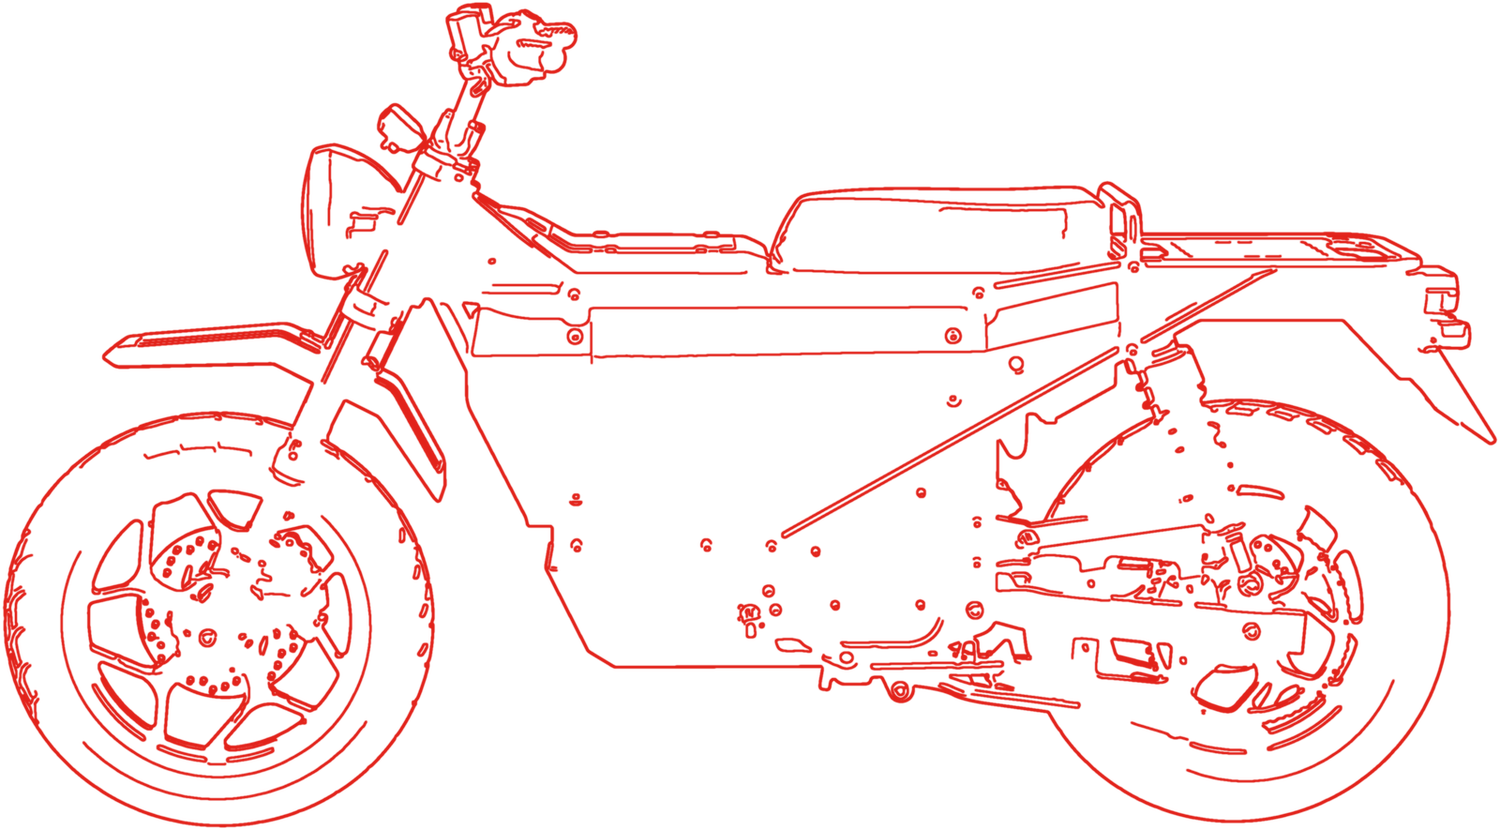
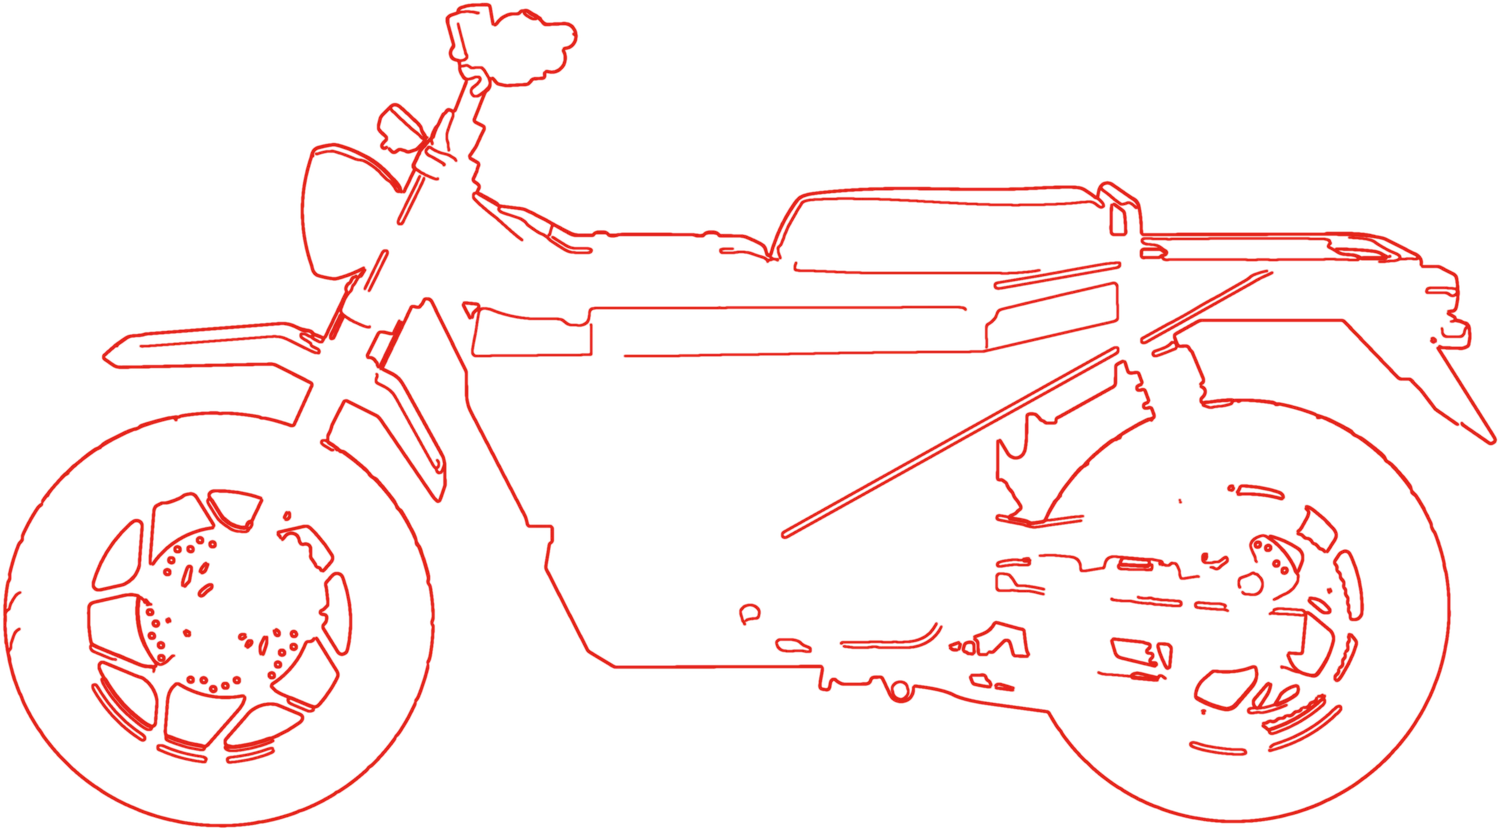
Add files via upload

diff --git a/index.html b/index.html
@@ -76,7 +76,17 @@ nav{
   background:linear-gradient(180deg,rgba(10,10,11,.92),rgba(10,10,11,0));
   backdrop-filter:blur(6px);
 }
-.brand{display:flex;align-items:baseline;gap:10px}
+.brand{display:flex;align-items:baseline;gap:10px;text-decoration:none;color:inherit;transition:opacity .2s}
+.brand:hover{opacity:.72}
+.navright{display:flex;align-items:center;gap:10px}
+.navcta{
+  background:var(--red);color:#fff;border:0;cursor:pointer;border-radius:2px;
+  font-family:var(--mono);font-size:10.5px;font-weight:500;letter-spacing:.14em;
+  text-transform:uppercase;padding:9px 16px;transition:background .2s;white-space:nowrap;
+}
+.navcta:hover{background:#ff2e24}
+.navcta .sm{display:none}
+@media(max-width:560px){.navcta{padding:9px 12px;letter-spacing:.1em}.navcta .lg{display:none}.navcta .sm{display:inline}}
 .brand b{font-family:var(--wordmark);font-weight:400;font-size:23px;letter-spacing:.04em}
 .brand span{font-family:var(--mono);font-size:10px;letter-spacing:.2em;color:var(--muted)}
 .langtoggle{display:flex;border:1px solid var(--line-strong);border-radius:2px;overflow:hidden}
@@ -89,6 +99,7 @@ nav{
 /* ---------- hero ---------- */
 .hero{position:relative;min-height:100svh;display:flex;flex-direction:column;justify-content:flex-end;padding:96px var(--gut) 0}
 #field{position:absolute;inset:0;width:100%;height:100%;z-index:0}
+.hero.dragging,.hero.dragging *{user-select:none;-webkit-user-select:none}
 .hero-inner{position:relative;z-index:2;width:100%;margin-top:auto;padding-bottom:clamp(28px,7vh,80px)}
 .hero h1{
   font-family:var(--wordmark);font-weight:400;text-transform:uppercase;
@@ -196,15 +207,21 @@ footer .tag{line-height:2}
 <body>
 
 <nav>
-  <div class="brand"><b>VOLTY</b><span>BY NUEN MOTO</span></div>
-  <div class="langtoggle" role="group" aria-label="Language">
-    <button id="btn-en" aria-pressed="true">EN</button>
-    <button id="btn-vi" aria-pressed="false">VI</button>
+  <a class="brand" href="#top" aria-label="Volty home"><b>VOLTY</b><span>BY NUEN MOTO</span></a>
+  <div class="navright">
+    <button class="navcta" id="navjoin">
+      <span class="lg" data-en="Join the list" data-vi="Đăng ký danh sách">Join the list</span>
+      <span class="sm" data-en="Join" data-vi="Đăng ký">Join</span>
+    </button>
+    <div class="langtoggle" role="group" aria-label="Language">
+      <button id="btn-en" aria-pressed="true">EN</button>
+      <button id="btn-vi" aria-pressed="false">VI</button>
+    </div>
   </div>
 </nav>
 
 <!-- ============ HERO ============ -->
-<header class="hero">
+<header class="hero" id="top">
   <canvas id="field" aria-hidden="true"></canvas>
 
   <div class="hero-inner">
@@ -364,6 +381,7 @@ tick(); setInterval(tick, 1000);
 var cv = document.getElementById("field"), cx = cv.getContext("2d");
 var dots = [], W = 0, H = 0, dpr = Math.min(window.devicePixelRatio || 1, 2);
 var px = -9999, py = -9999, hasPointer = false, heroVisible = true;
+var dragging = false, boost = 1;
 
 function build(){
   W = cv.clientWidth; H = cv.clientHeight;
@@ -378,7 +396,8 @@ function build(){
 function draw(t){
   if(!heroVisible){ requestAnimationFrame(draw); return; }
   cx.clearRect(0,0,W,H);
-  var R = W < 620 ? 130 : 200;
+  boost += ((dragging ? 1.5 : 1) - boost) * 0.10;
+  var R = (W < 620 ? 190 : 300) * boost;
   var wave = t * 0.0006;
   for(var i=0;i<dots.length;i++){
     var d = dots[i];
@@ -388,9 +407,10 @@ function draw(t){
       var dist = Math.sqrt(vx*vx + vy*vy);
       if(dist < R){
         var f = 1 - dist/R;
-        cx.fillStyle = "rgba(226,35,26," + (0.18 + f*0.82) + ")";
+        var g = f*f*(3-2*f);
+        cx.fillStyle = "rgba(226,35,26," + Math.min(1, 0.16 + g*0.95*boost) + ")";
         cx.beginPath();
-        cx.arc(d.ox + (vx/(dist||1))*f*24, d.oy + (vy/(dist||1))*f*24, 1 + f*2.8, 0, 6.2832);
+        cx.arc(d.ox + (vx/(dist||1))*g*34*boost, d.oy + (vy/(dist||1))*g*34*boost, 1 + g*4.2*boost, 0, 6.2832);
         cx.fill();
         continue;
       }
@@ -411,7 +431,20 @@ window.addEventListener("pointermove", function(e){
   if(e.clientY > rect.bottom || e.clientY < rect.top){ hasPointer = false; return; }
   hasPointer = true; px = e.clientX - rect.left; py = e.clientY - rect.top;
 }, {passive:true});
-window.addEventListener("pointerleave", function(){ hasPointer = false; });
+window.addEventListener("pointerleave", function(){ hasPointer = false; dragging = false; });
+window.addEventListener("pointerdown", function(){
+  if(!hasPointer) return;
+  dragging = true;
+  document.querySelector(".hero").classList.add("dragging");
+}, {passive:true});
+window.addEventListener("pointerup", function(){
+  dragging = false;
+  document.querySelector(".hero").classList.remove("dragging");
+}, {passive:true});
+window.addEventListener("pointercancel", function(){
+  dragging = false;
+  document.querySelector(".hero").classList.remove("dragging");
+}, {passive:true});
 
 /* ---------- torch reveal ---------- */
 var stage = document.getElementById("stage");
@@ -482,6 +515,10 @@ function closeSheet(){
   if(lastFocus) lastFocus.focus();
 }
 
+document.getElementById("navjoin").addEventListener("click", function(){
+  document.getElementById("line").scrollIntoView({behavior:"smooth"});
+  setTimeout(function(){ openBtn.click(); }, 520);
+});
 openBtn.addEventListener("click", function(){
   if(!LARK_FORM_URL || !FORM_OK){
     window.location.href = "mailto:hello@volty.info?subject=" + encodeURIComponent("Volty U1 list");
